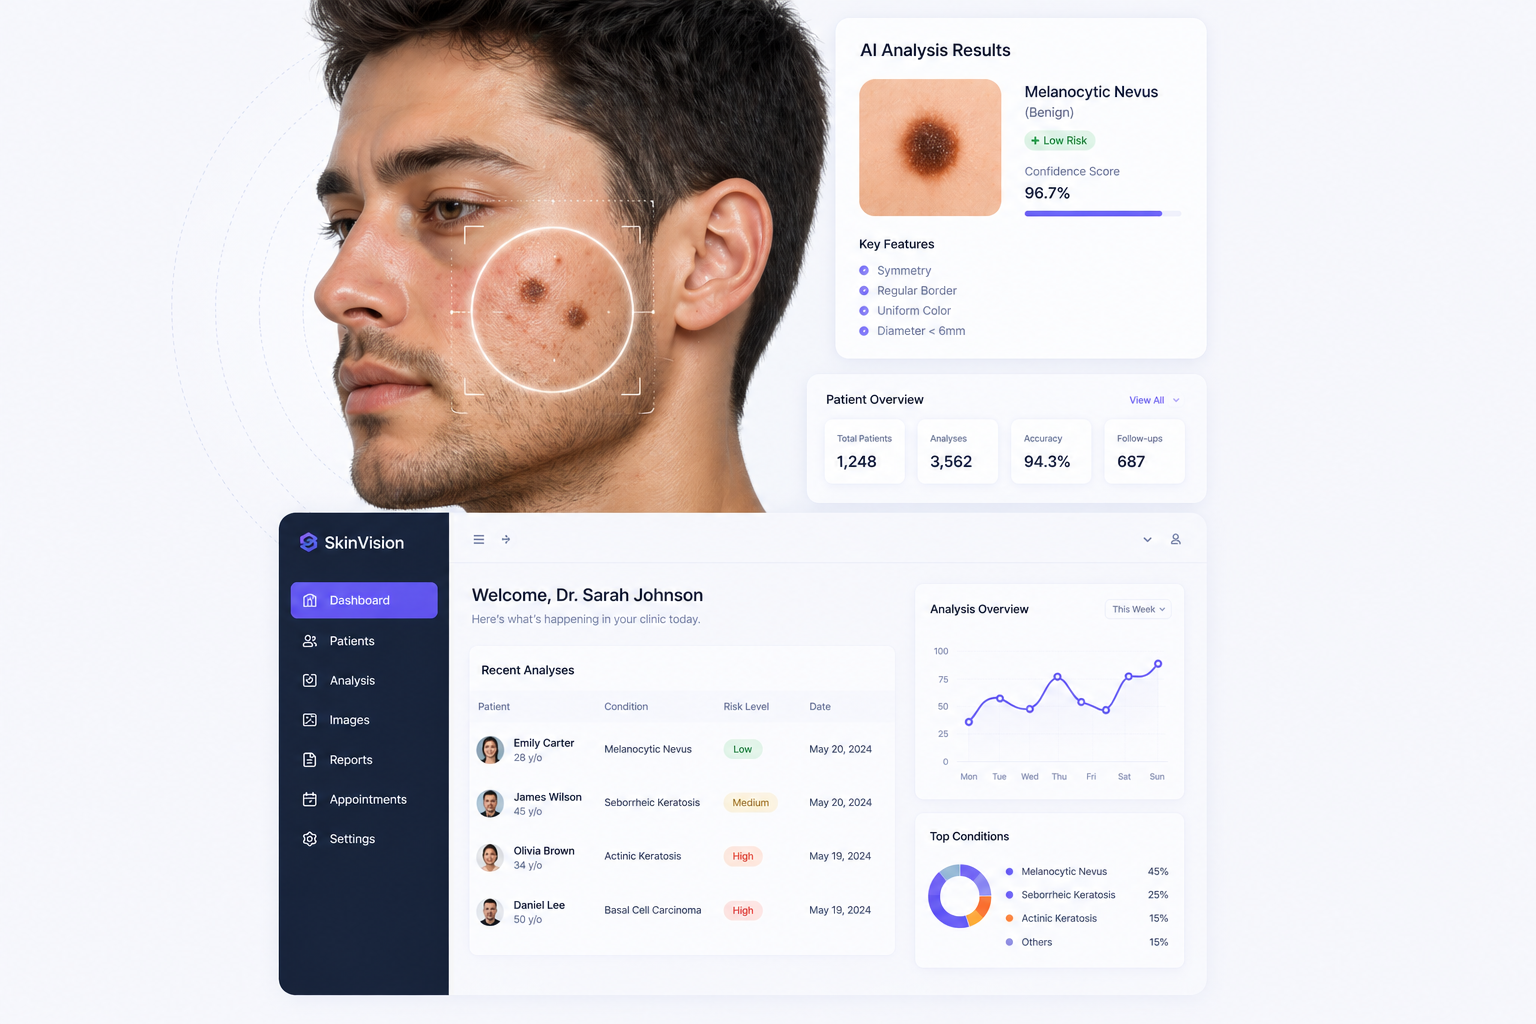
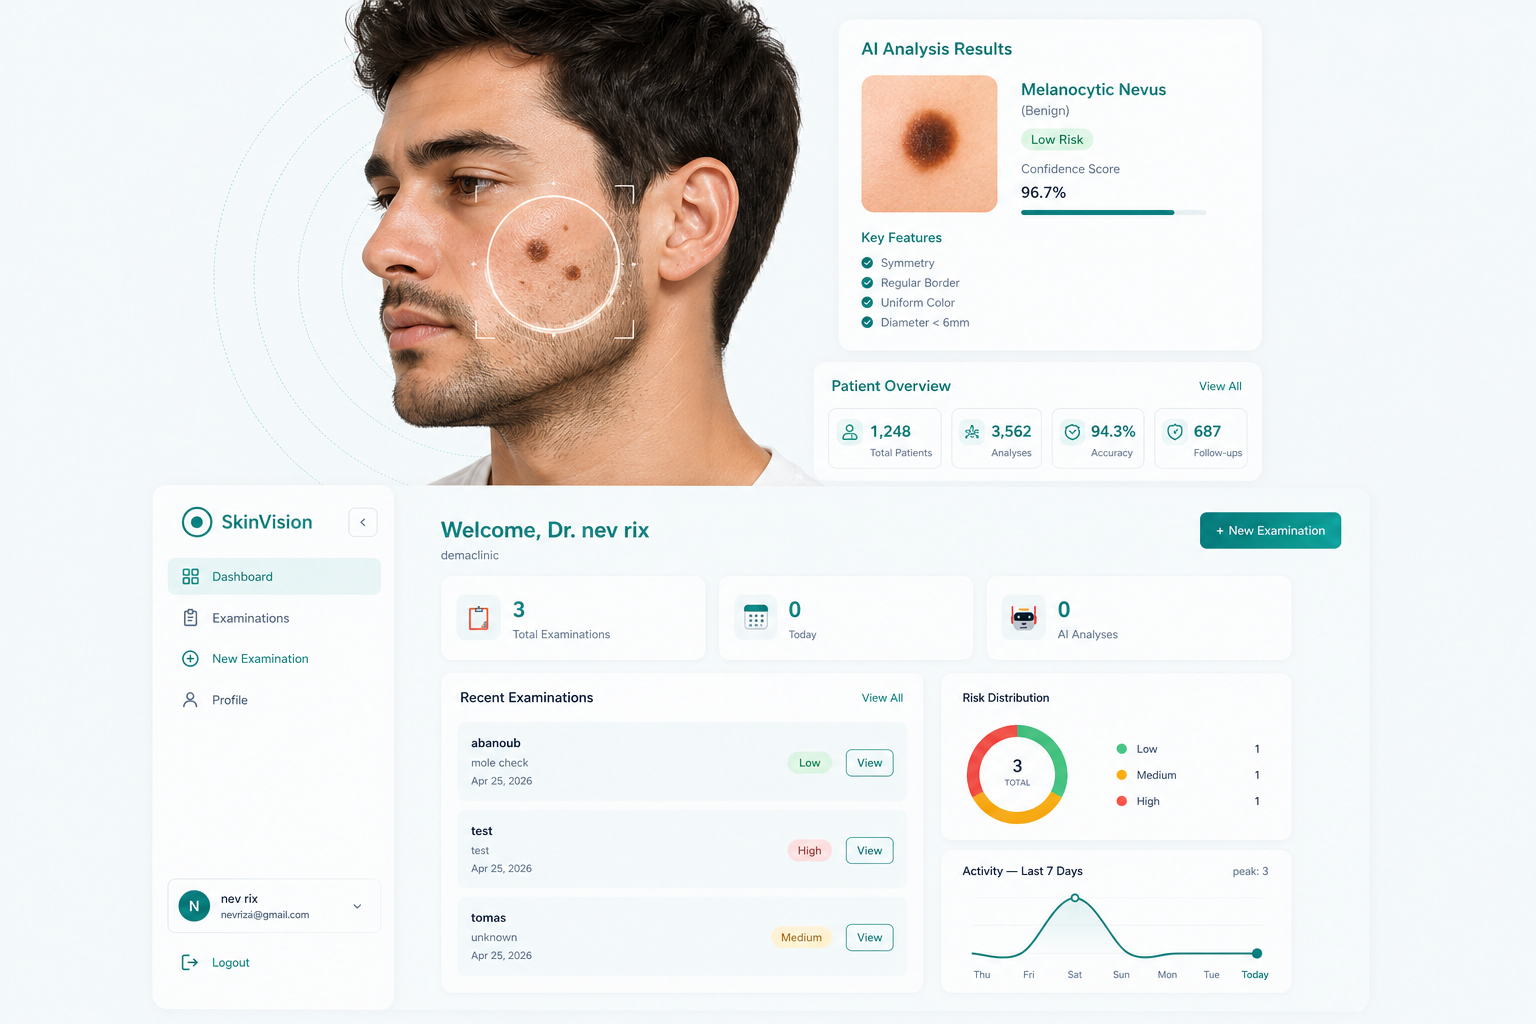
adding 'detectChanges()' on View specific examiantion details component

diff --git a/SkinVision/Frontend/src/app/pages/doctor/view-examination.component.ts b/SkinVision/Frontend/src/app/pages/doctor/view-examination.component.ts
@@ -1,10 +1,11 @@
-import { Component, OnInit } from '@angular/core';
+import { Component, OnInit, ChangeDetectorRef, OnDestroy } from '@angular/core';
 import { ActivatedRoute, RouterLink } from '@angular/router';
 import { CommonModule } from '@angular/common';
 import { ExaminationService } from '../../services/examination.service';
 import { ReportService } from '../../services/report.service';
 import { Examination, Report, DoctorProfile } from '../../models/models';
 import { environment } from '../../../environments/environment';
+import { Subject, takeUntil } from 'rxjs';
 
 @Component({
   selector: 'app-view-examination',
@@ -496,7 +497,7 @@ import { environment } from '../../../environments/environment';
     }
   `]
 })
-export class ViewExaminationComponent implements OnInit {
+export class ViewExaminationComponent implements OnInit, OnDestroy {
   examId: string = '';
   exam: Examination | null = null;
   doctorProfile: DoctorProfile | null = null;
@@ -504,11 +505,13 @@ export class ViewExaminationComponent implements OnInit {
   private pdfBusy = false;
   errorMessage = '';
   toastMessage = '';
+  private destroy$ = new Subject<void>();
 
   constructor(
     private route: ActivatedRoute,
     private examinationService: ExaminationService,
-    private reportService: ReportService
+    private reportService: ReportService,
+    private cdr: ChangeDetectorRef
   ) { }
 
   ngOnInit() {
@@ -517,23 +520,39 @@ export class ViewExaminationComponent implements OnInit {
     this.loadReports();
   }
 
+  ngOnDestroy(): void {
+    this.destroy$.next();
+    this.destroy$.complete();
+  }
+
   loadExamination() {
-    this.examinationService.getExamination(+this.examId).subscribe({
-      next: (exam) => {
-        this.exam = exam;
-      },
-      error: (err) => {
-        this.errorMessage = 'Failed to load examination.';
-        console.error(err);
-      }
-    });
+    this.examinationService.getExamination(+this.examId)
+      .pipe(takeUntil(this.destroy$))
+      .subscribe({
+        next: (exam) => {
+          this.exam = exam;
+          this.cdr.detectChanges();
+        },
+        error: (err) => {
+          this.errorMessage = 'Failed to load examination.';
+          this.cdr.detectChanges()
+        }
+      });
   }
 
   loadReports() {
-    this.reportService.getReportsForExamination(+this.examId).subscribe({
-      next: (reports) => this.reports = reports,
-      error: (err) => console.error('Failed to load reports', err)
-    });
+    this.reportService.getReportsForExamination(+this.examId)
+      .pipe(takeUntil(this.destroy$))
+      .subscribe({
+        next: (reports) => {
+          this.reports = reports;
+          this.cdr.detectChanges();
+        },
+        error: (err) => {
+          this.errorMessage = 'Failed to load reports.';
+          this.cdr.detectChanges()
+        }
+      });
   }
 
   generateAndDownloadPDF() {
@@ -541,28 +560,32 @@ export class ViewExaminationComponent implements OnInit {
       return;
     }
     this.pdfBusy = true;
-    this.reportService.generateReport(+this.examId).subscribe({
-      next: (report) => {
-        this.reports.unshift(report);
-        this.showToast('Report generated successfully!');
+    this.reportService.generateReport(+this.examId)
+      .pipe(takeUntil(this.destroy$))
+      .subscribe({
+        next: (report) => {
+          this.reports.unshift(report);
+          this.showToast('Report generated successfully!');
 
-        this.reportService.downloadReport(report.reportId).subscribe({
-          next: (blob) => {
-            this.triggerDownload(blob, `${report.title || 'Report'}.pdf`);
-            this.pdfBusy = false;
-          },
-          error: () => {
-            this.showToast('Report created but download failed. Try from the list below.');
-            this.pdfBusy = false;
-          }
-        });
-      },
-      error: (err) => {
-        this.showToast('Failed to generate report. Please try again.');
-        this.pdfBusy = false;
-        console.error(err);
-      }
-    });
+          this.reportService.downloadReport(report.reportId)
+            .pipe(takeUntil(this.destroy$))
+            .subscribe({
+              next: (blob) => {
+                this.triggerDownload(blob, `${report.title || 'Report'}.pdf`);
+                this.pdfBusy = false;
+              },
+              error: () => {
+                this.showToast('Report created but download failed. Try from the list below.');
+                this.pdfBusy = false;
+              }
+            });
+        },
+        error: (err) => {
+          this.showToast('Failed to generate report. Please try again.');
+          this.pdfBusy = false;
+          console.error(err);
+        }
+      });
   }
 
   downloadExistingReport(report: Report) {

diff --git a/SkinVision/Frontend/src/app/pages/landing/landing.component.ts b/SkinVision/Frontend/src/app/pages/landing/landing.component.ts
@@ -11,7 +11,6 @@ import { User } from '../../models/models';
   imports: [RouterLink, CommonModule],
   template: `
     <section class="hero">
-      <div class="hero-bg-accent"></div>
       <div class="container hero-container">
         <div class="hero-content">
           <div class="badge-wrapper">
@@ -359,6 +358,8 @@ import { User } from '../../models/models';
       --white: #FFFFFF;
       --glass-bg: rgba(255, 255, 255, 0.9);
       --glass-border: rgba(255, 255, 255, 0.2);
+      /* Flat hero bg — midpoint of former #F8FAFC → #FFFFFF gradient; match raster exports to this */
+      --hero-bg: #FCFDFE;
     }
 
     .container {
@@ -400,17 +401,7 @@ import { User } from '../../models/models';
       align-items: center;
       padding: 120px 0 80px;
       overflow: hidden;
-      background: linear-gradient(135deg, #F8FAFC 0%, #FFFFFF 100%);
-    }
-
-    .hero-bg-accent {
-      position: absolute;
-      top: -20%;
-      right: -10%;
-      width: 800px;
-      height: 800px;
-      background: radial-gradient(circle, rgba(43, 177, 184, 0.08) 0%, transparent 70%);
-      pointer-events: none;
+      background: var(--hero-bg);
     }
 
     .hero-container {
@@ -565,19 +556,14 @@ import { User } from '../../models/models';
     }
 
     .hero-image-frame {
-      width: 100%;
-      max-width: 560px;
-      border-radius: 20px;
-      overflow: hidden;
-      box-shadow:
-        0 20px 50px rgba(0, 0, 0, 0.1),
-        0 0 0 1px rgba(0, 0, 0, 0.05);
+      width: 200%;
+      max-width: 1000px;
       line-height: 0;
     }
 
     .hero-image-frame img {
       display: block;
-      max-width: 100%;
+      max-width: 120%;
       height: auto;
     }
 
